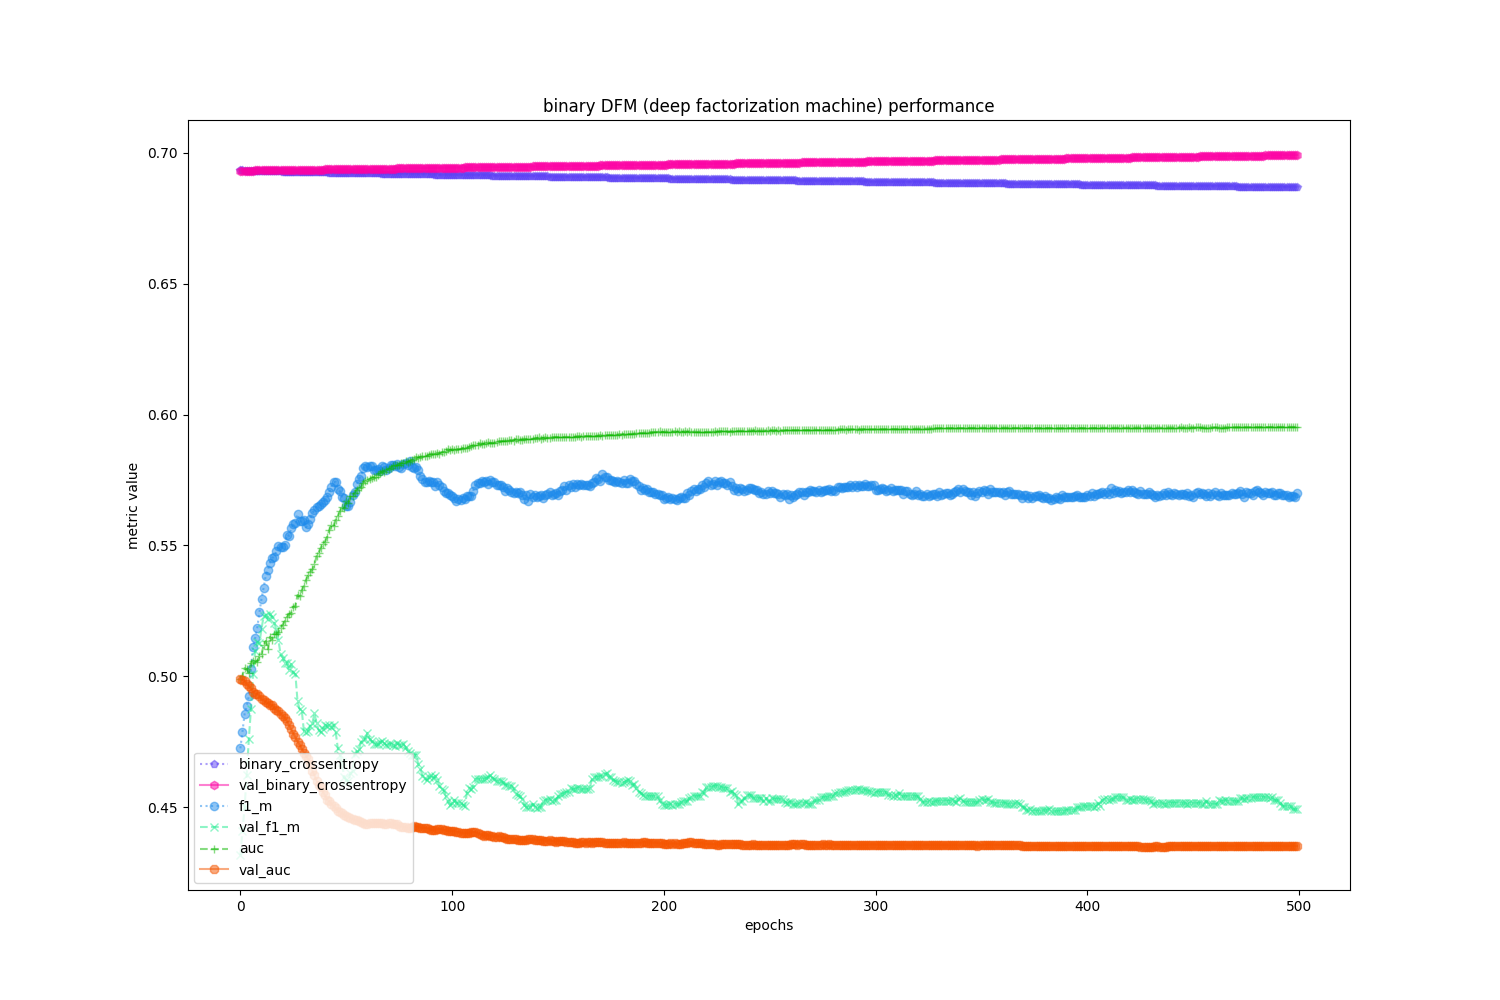
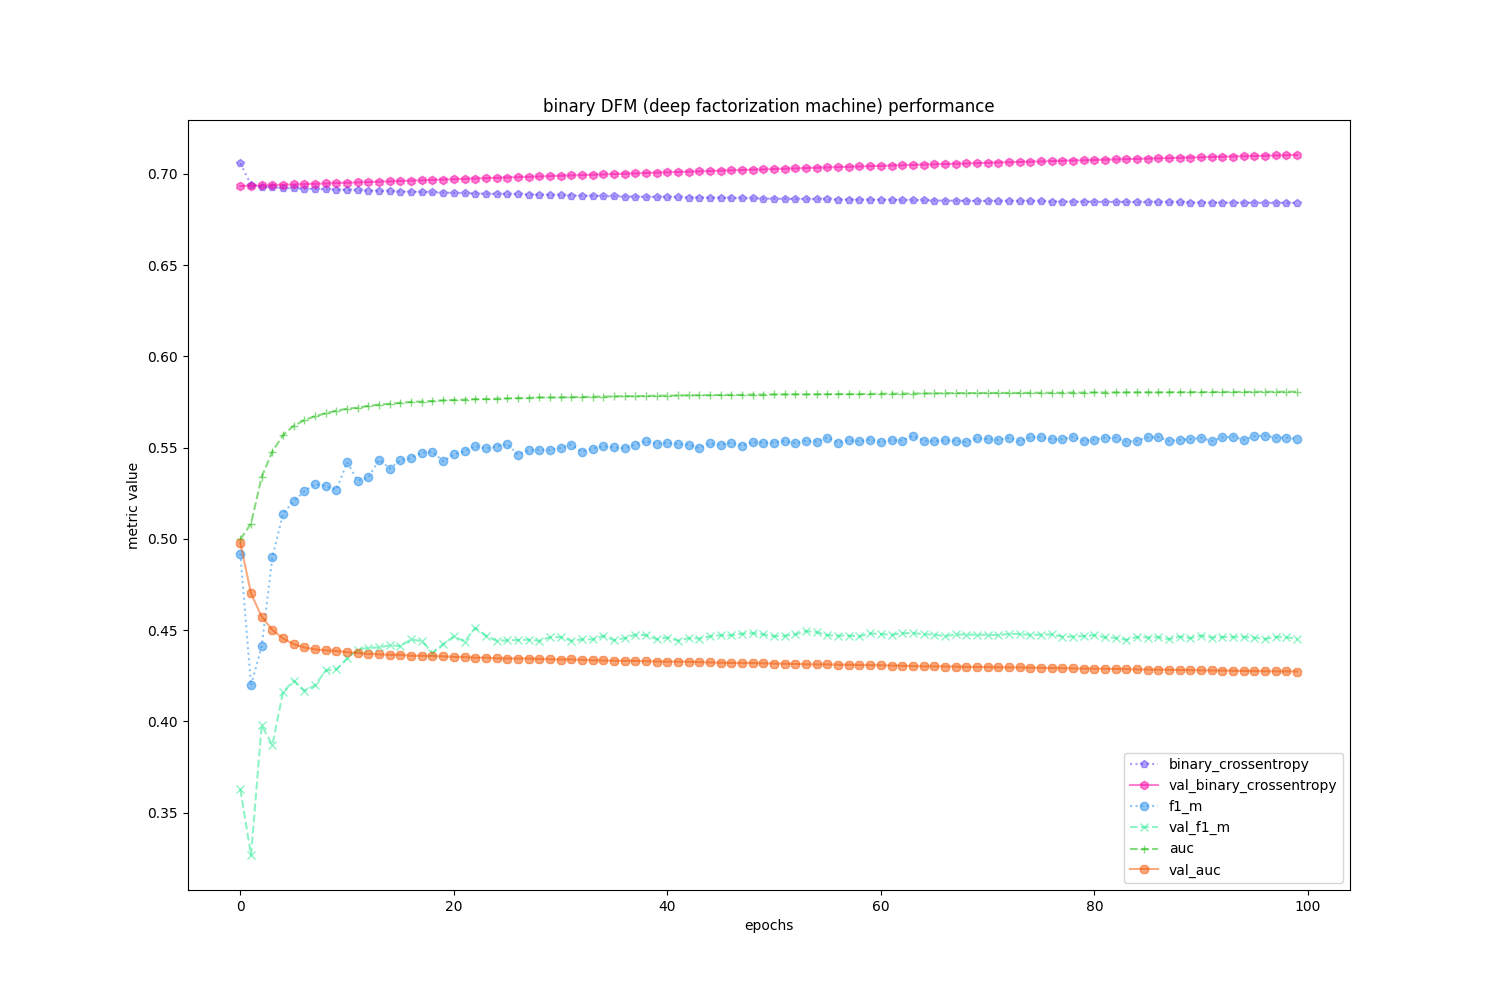
no good results yet

diff --git a/train_model.py b/train_model.py
@@ -44,6 +44,7 @@ if __name__ == "__main__":
     meta_data = load_meta_data(f'./data/{args.d}/{out_file}_train_meta.json')
     n_users, n_items = meta_data['n_users'], meta_data['n_items']
     train_data, cross_data, test_data = load_data_splits(args.d, f'./data/{args.d}')
+    print(train_data['interaction'].value_counts())
 
     # load model
     model = load_model(
@@ -67,7 +68,7 @@ if __name__ == "__main__":
         batch_size=args.batch_size,
         epochs=args.n_epochs,
         validation_data=([cross_data['user_id'], cross_data['item_id']], cross_data['interaction']),
-        callbacks=[EarlyStopping(monitor='val_f1_m', patience=50)]
+        # callbacks=[EarlyStopping(monitor='val_f1_m', patience=50)]
     )
 
     # visualize model results

diff --git a/readme.md b/readme.md
@@ -173,6 +173,13 @@ Name: item_id, dtype: object
 **Prerequisites to do:**
 1. raise problem in stackvoerflow:
 RecSys model performance stalling at 47% AUC and F1-Score. Is the problem due to ratio of users to items in my dataset?
+
+I'm having trouble with making my validation metrics go down for the binary_crossentropy and go up for the F1-score and AUC. I've tried tuning my hyper parameters such as the number of latent features of the model (8), the learning rate (0.000075), the lambda in the regularization term (1.2), the the drop out rate (0.4), and the batch size (16384), which have seemingly maximum values you can give to where you can ensure the prevention of overfitting, but to no avail my validation F1-Score and AUC always stalls at around 47%, 52% at its highest if I increase my epochs to 500. It even got to the point that a higher batch size gave my RAM problems since I only use my mere CPU in this ML task (Because I've no graphics card unfortunately).
+
+Here is my model architecture which uses an embedding layer initially then essentially takes the output of this embedding layer and feeds it into two phases so to speak, one that will flatten the output of the embedding layer and one which concatenates the output of the embedding layer and feeds it into a fully connected network.
+
+So my question Could it be that my architecture is too complex or is my dataset the problem?
+
 2. use github URL of larj-corpus dataset instead of local path in retrieving the rating data
 
 **To do:**
@@ -180,6 +187,7 @@ RecSys model performance stalling at 47% AUC and F1-Score. Is the problem due to
 2. `python train_model.py -d juris-600k --protocol A --model_name FM --n_epochs 100 --rec_lambda 1 --rec_keep_prob 0.8 --batch_size 8192`
 3. in both models try bigger batch of 65536, 32768, 16384
 4. in DFM try keep probability of 0.6, alpha of 0.0001, lambda of 1.2
+5. python train_model.py -d juris-600k --protocol A --model_name DFM --n_features 8 --n_epochs 100 --rec_alpha 0.0003 --rec_lambda 0.9 --rec_keep_prob 0.1 --batch_size 16384
 
 **Problems:**
 1. <s>There is something wrong with split data or refactor raw ratings because there seems to be a mismatch in original number of user id's and item_id's. I suspect because user id and item ids are lessened because negative ratings are removed. Nevertheless following models and used dataset produce the ff. results:</s>
